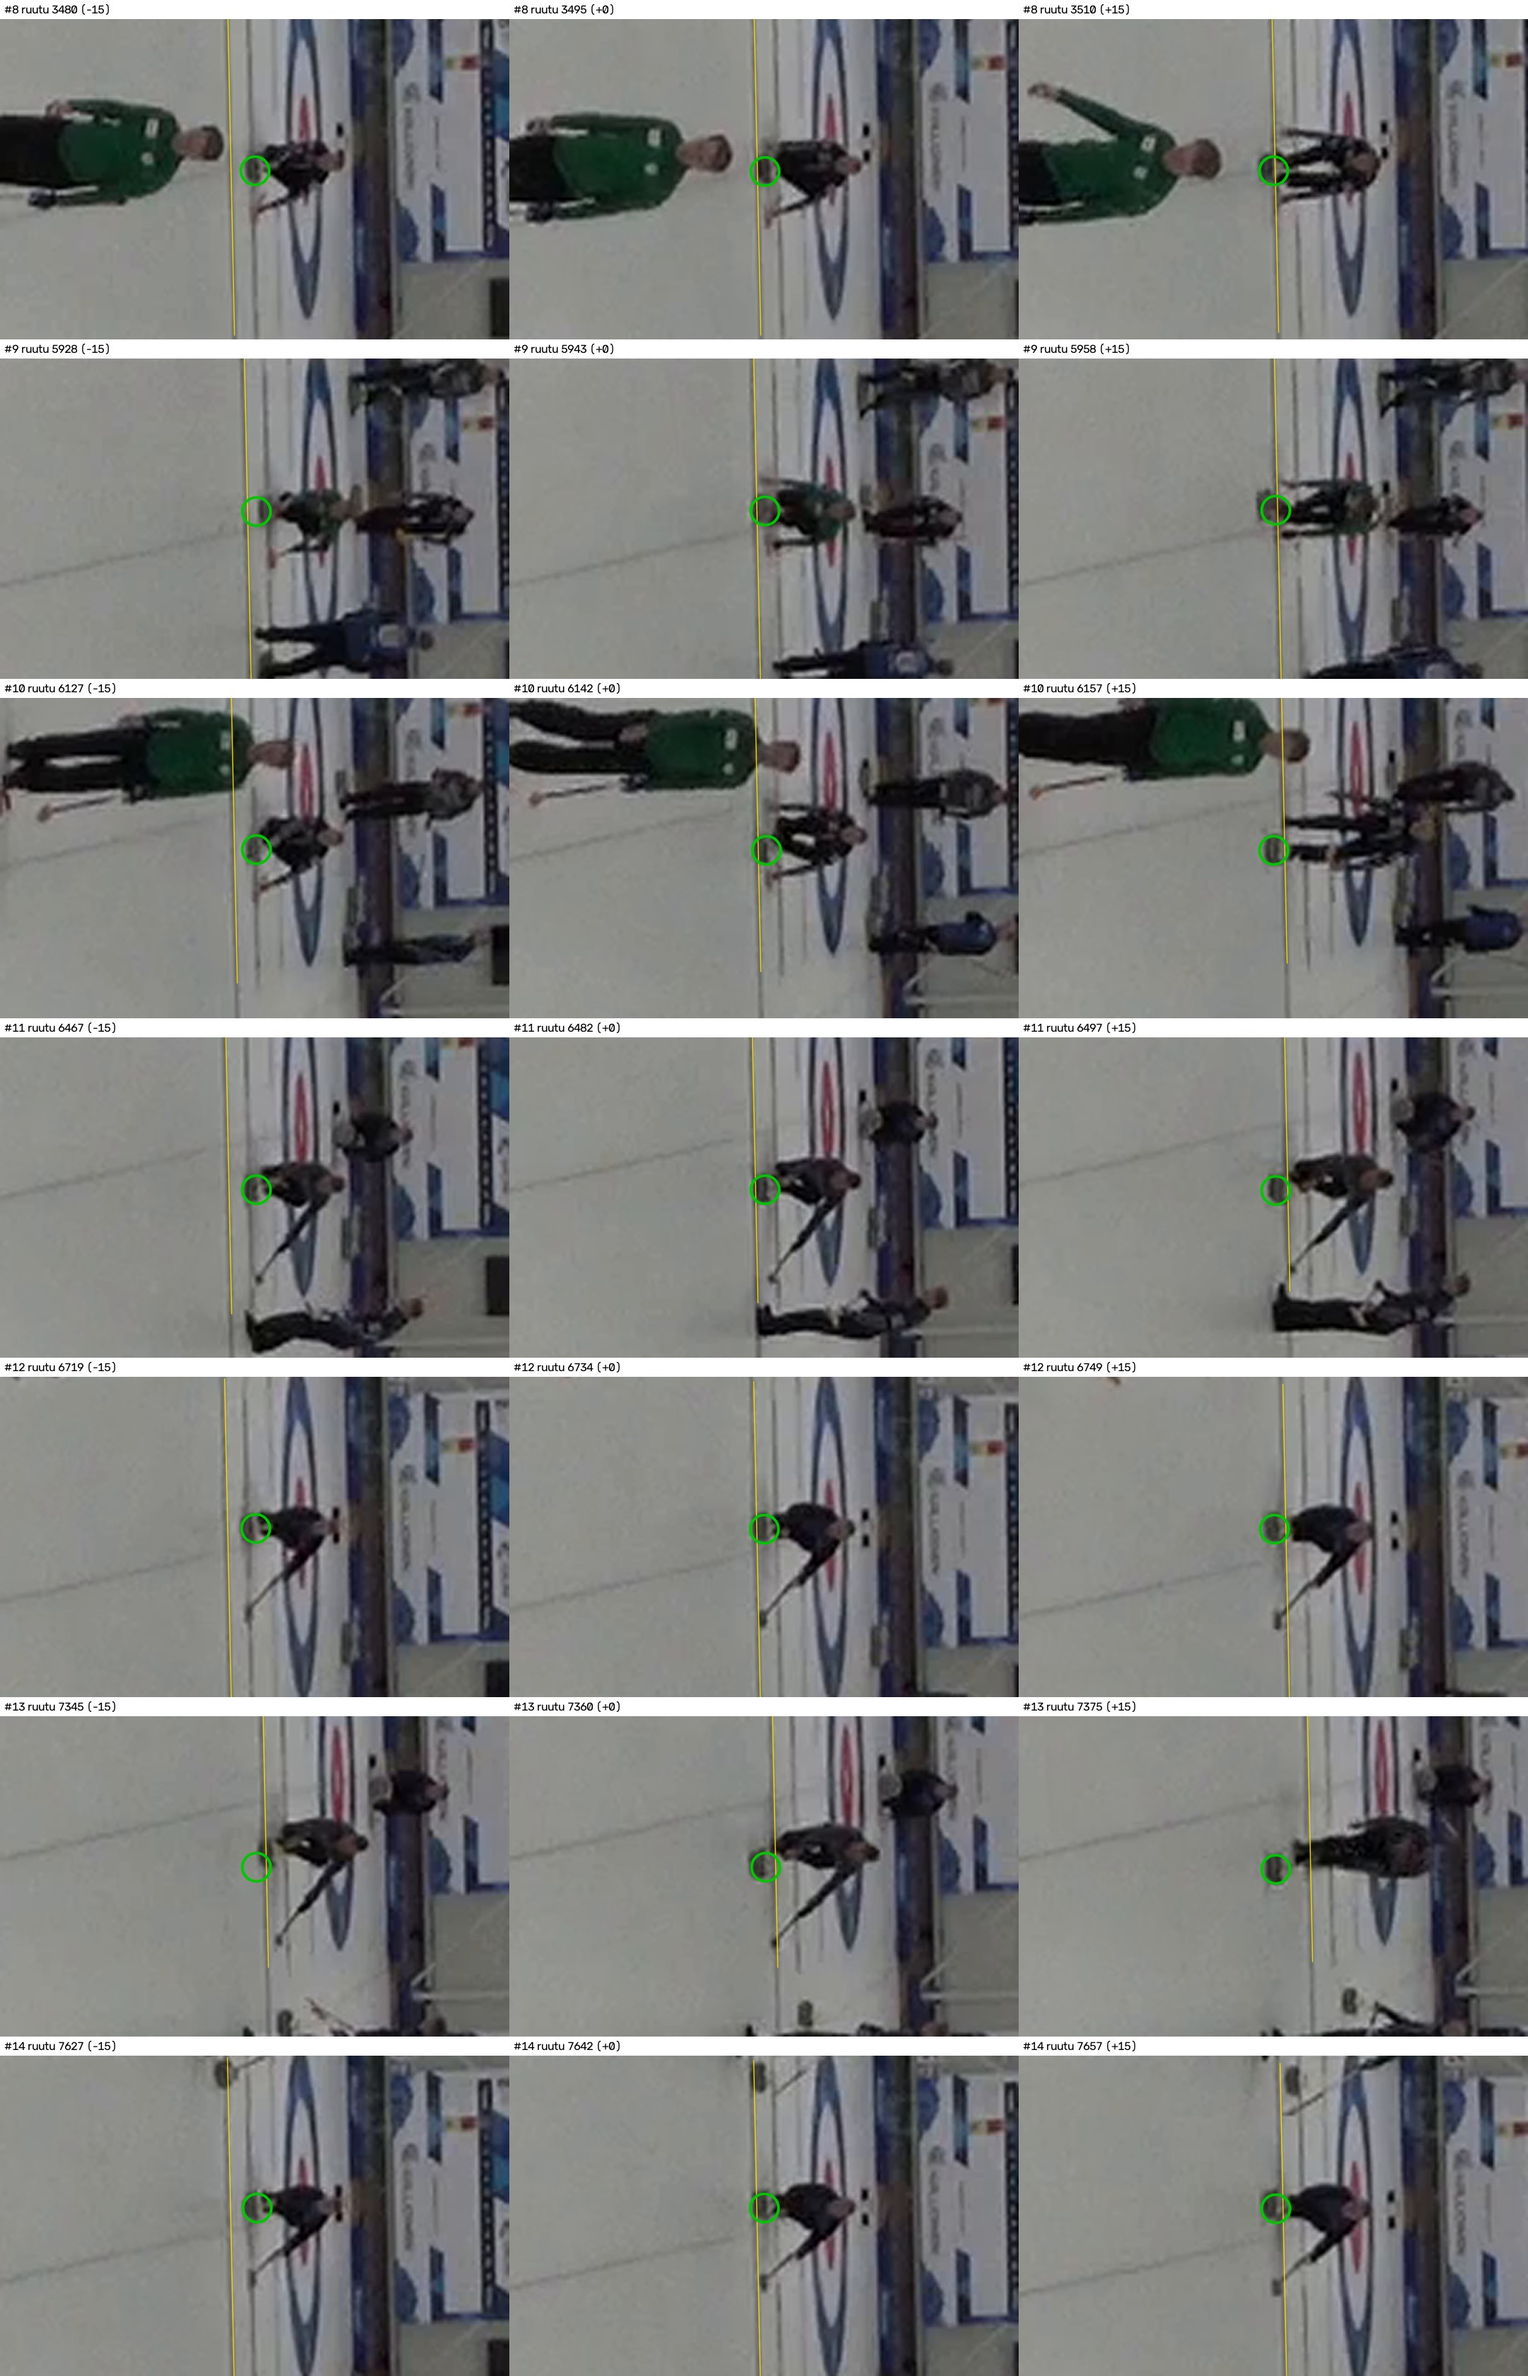
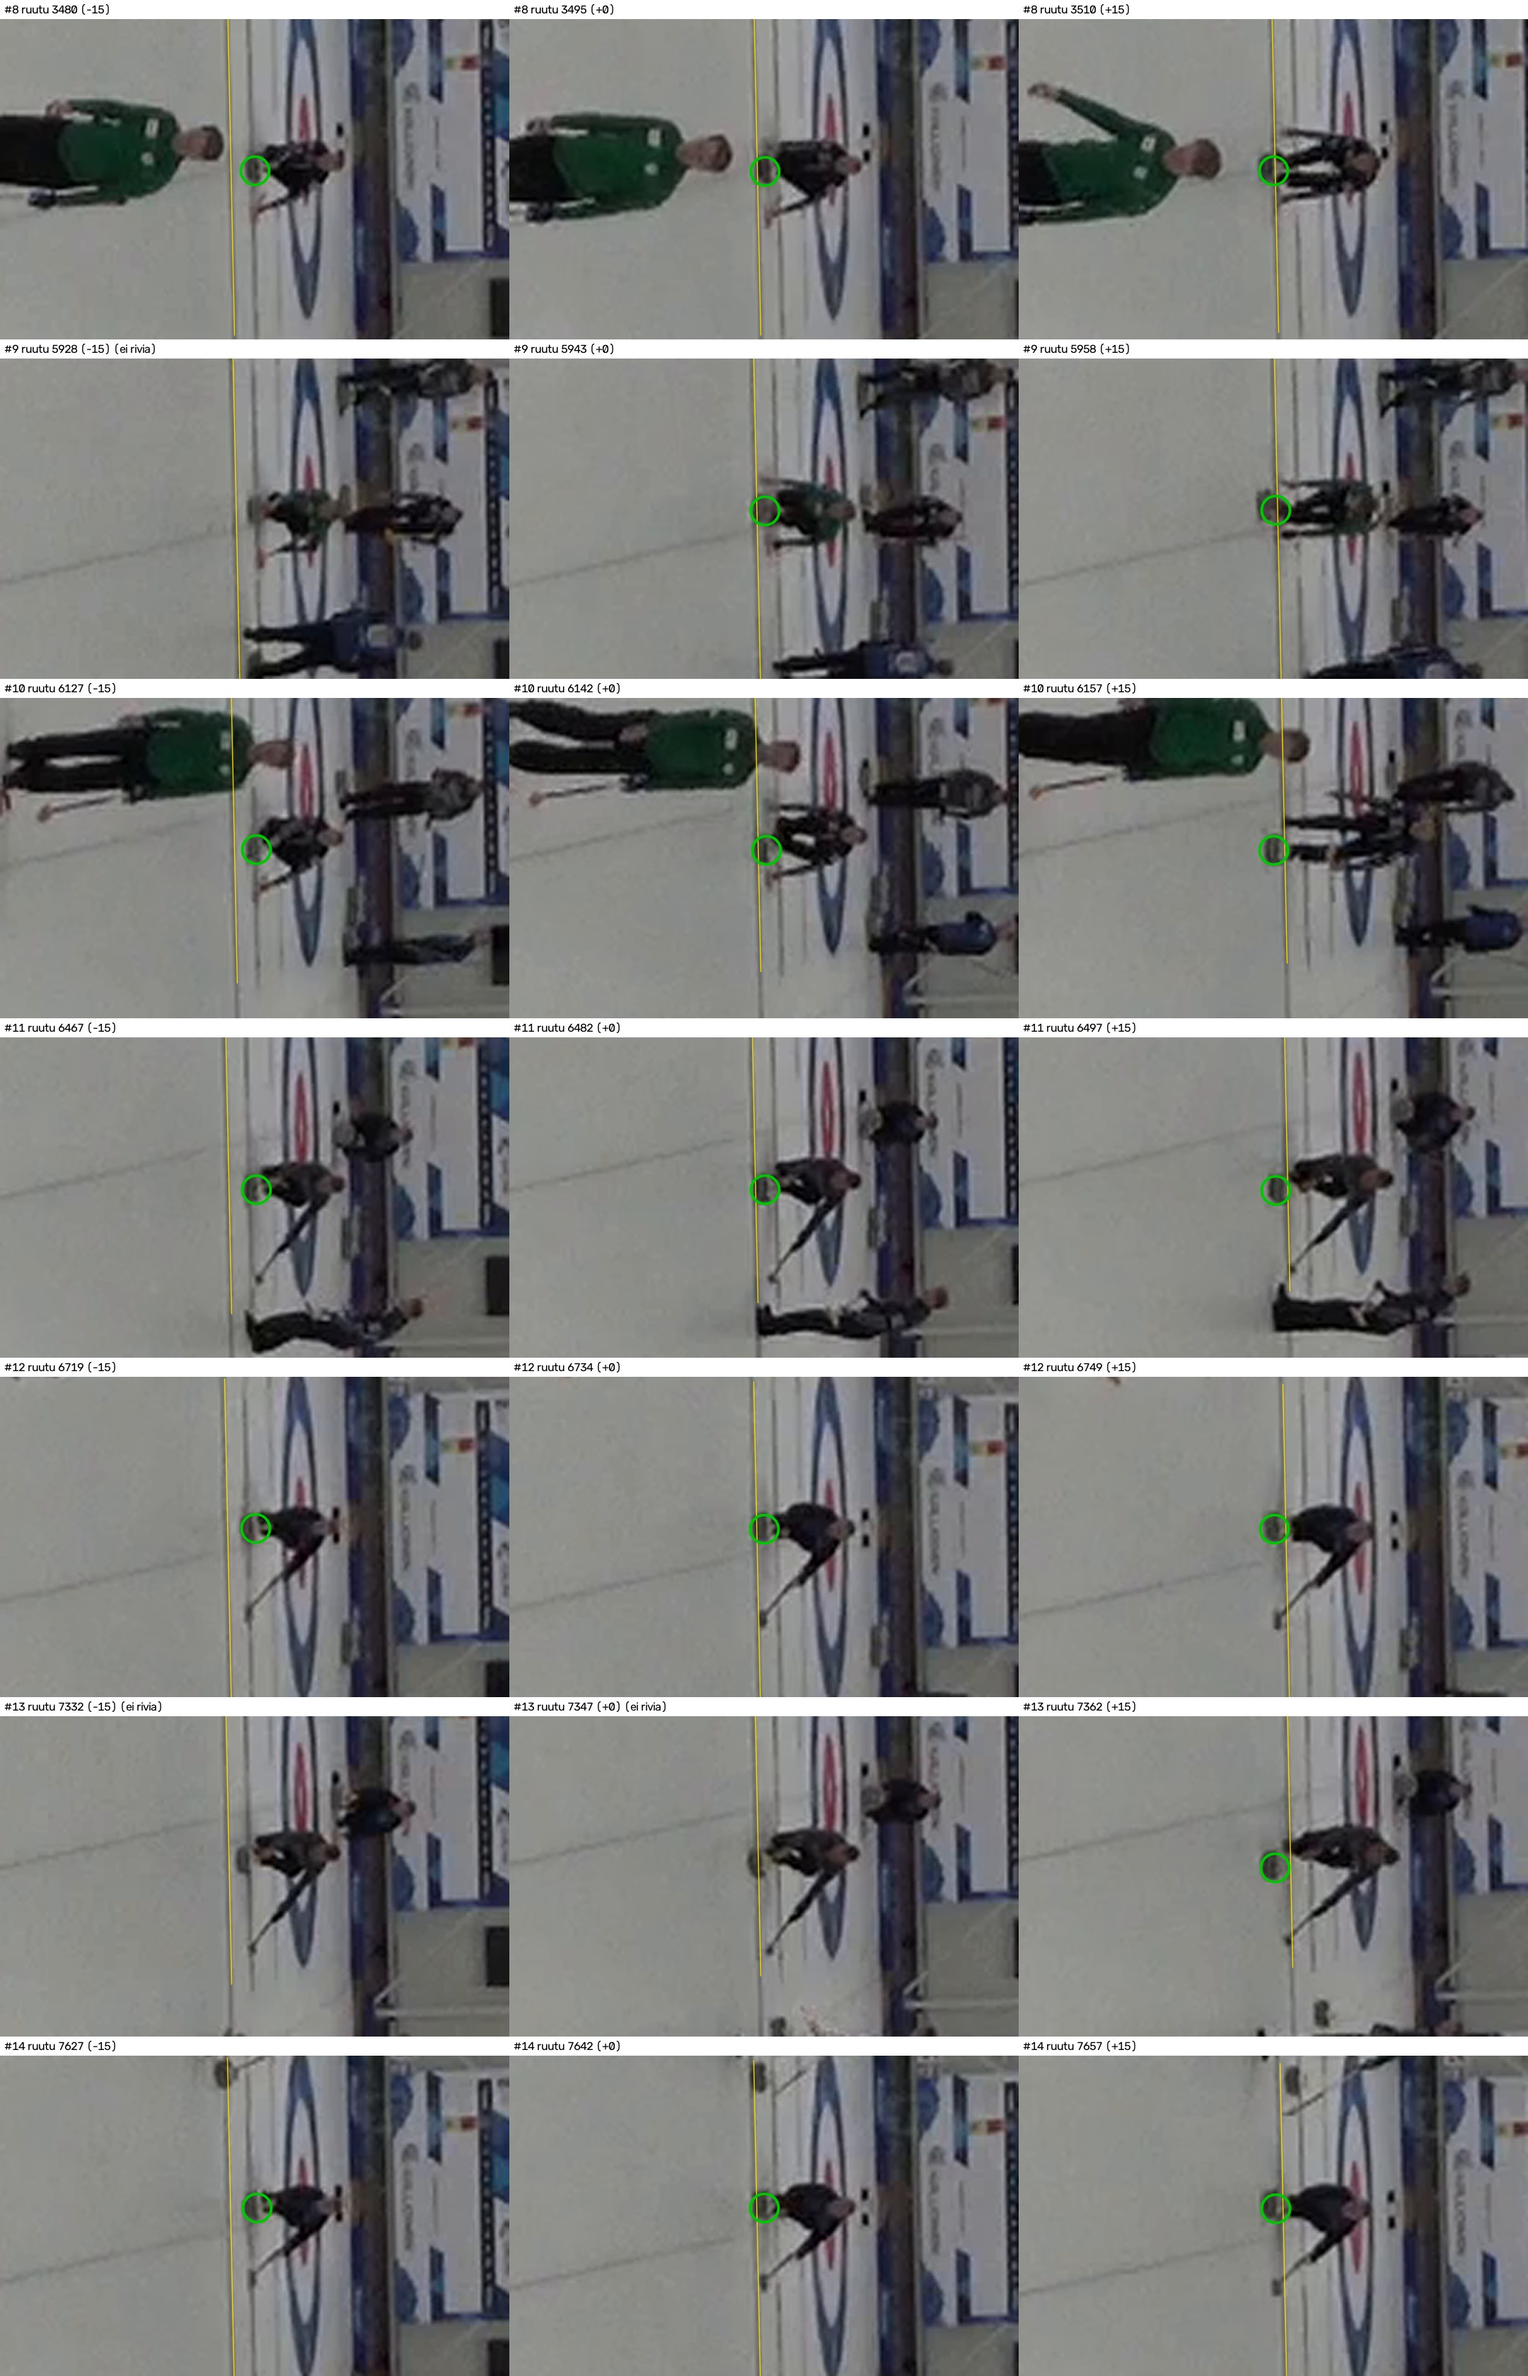
Testi_02_03: korjaa heitto #4 - radan alun karsinta rivittoman aukon jalkeen + ylitysajan ekstrapolointi
Rata 158 alkoi heittajan jalalta (kivi ei ollut viela heitetty) ja lukkiutui kiveen vasta ruudussa 2439.
- main.py: _trim_track_head, _estimate_crossing (GATE_HEAD_GAP_FRAMES, GATE_HEAD_MAX_ROWS, GATE_CROSS_EXTRAPOLATE_MAX)
- tools/regate_csv.py: portti raaka-CSV:lle ilman videota; make_crossing_images.py: ei rengasta ruutuihin ilman rivia
- tulokset: paivitetty CSV, kuvat, heittoportti.txt

Claude-Session: https://claude.ai/code/session_01KJw3vvcaxR8GdJY8FYAu7G

diff --git a/Testi_02_03/main.py b/Testi_02_03/main.py
@@ -1507,6 +1507,9 @@ GATE_MAX_SPEED_RATIO = float(os.environ.get("GATE_MAX_SPEED_RATIO", "0.6"))
 GATE_RESCUE_MAX_RMS = float(os.environ.get("GATE_RESCUE_MAX_RMS", "12.0"))
 GATE_RESCUE_MIN_TARKKA = float(os.environ.get("GATE_RESCUE_MIN_TARKKA", "0.1"))
 GATE_CROSS_DEDUP_FRAMES = float(os.environ.get("GATE_CROSS_DEDUP_FRAMES", "40"))
+GATE_HEAD_GAP_FRAMES = int(os.environ.get("GATE_HEAD_GAP_FRAMES", "30"))
+GATE_HEAD_MAX_ROWS = int(os.environ.get("GATE_HEAD_MAX_ROWS", "40"))
+GATE_CROSS_EXTRAPOLATE_MAX = float(os.environ.get("GATE_CROSS_EXTRAPOLATE_MAX", "60"))
 GATE_MAX_RMS = float(os.environ.get("GATE_MAX_RMS", "3.0"))
 GATE_MIN_TARKKA = float(os.environ.get("GATE_MIN_TARKKA", "0.3"))
 
@@ -1531,6 +1534,32 @@ def _track_kinematics(rows):
     if cross is None and ys[0] <= hog:
         cross = float(fr[0])
     return float(ys[0] - ys.min()), float(ys[-1]), float(ratio), cross
+
+
+def _trim_track_head(rows):
+    """Pudottaa radan alun, jos sen jalkeen on GATE_HEAD_GAP_FRAMES:ia pidempi rivitön aukko ja alku on lyhyt
+    (< GATE_HEAD_MAX_ROWS riviä): rata on alussa lukkiutunut vääraan kohteeseen (esim. pelaajan jalka)
+    ja löytänyt oikean kiven vasta aukon jalkeen. Havaittu: heitto #4 (rata 158)."""
+    for i in range(min(len(rows) - 1, GATE_HEAD_MAX_ROWS)):
+        if rows[i + 1][0] - rows[i][0] > GATE_HEAD_GAP_FRAMES:
+            return rows[i + 1:]
+    return rows
+
+
+def _estimate_crossing(rows):
+    """Kaukaisen hoglinen ylitysframe. Jos rata alkaa jo hoglinen ALAPUOLELTA (rekisteroity myohassa),
+    ylitys ekstrapoloidaan taaksepain radan alun nopeudesta (enintaan GATE_CROSS_EXTRAPOLATE_MAX ruutua)."""
+    cross = _track_kinematics(rows)[3]
+    ys = np.array([r["Y_cm"] for _, _, r in rows])
+    fr = np.array([f for f, _, _ in rows], dtype=float)
+    hog = k8.FAR_HOGLINE_Y_CM
+    if ys[0] <= hog and len(rows) >= 10:
+        m = min(len(rows), 30)
+        v = (ys[0] - ys[m - 1]) / max(1.0, fr[m - 1] - fr[0])   # cm/frame, Y pienenee -> v > 0
+        if v > 1.0:
+            back = min((hog - ys[0]) / v, GATE_CROSS_EXTRAPOLATE_MAX)
+            return float(fr[0] - back)
+    return cross
 
 
 def _track_throw_class(rows):
@@ -1560,11 +1589,12 @@ def _select_throws(tracks):
     kerta vain YKSI kivi ylittaa hoglinen) -> sailyy parempi (hyva sovitus ensin, sitten pienin rms)."""
     cands = []
     for sid, rows in tracks:
+        rows = _trim_track_head(rows)
         cls = _track_throw_class(rows)
         if cls == 0:
             continue
         rms = [r["rms_px"] for _, _, r in rows if r.get("rms_px") is not None]
-        cross = _track_kinematics(rows)[3]
+        cross = _estimate_crossing(rows)
         cands.append((-cls, float(np.median(rms)), -len(rows), sid, rows, cross))
     cands.sort(key=lambda c: c[:3])
     kept = []

diff --git a/Testi_02_03/tools/make_crossing_images.py b/Testi_02_03/tools/make_crossing_images.py
@@ -32,6 +32,11 @@ def crossing(v):
     for a, b in zip(v, v[1:]):
         if a[2] > HOG >= b[2]:
             return a[0]
+    if v[0][2] <= HOG and len(v) >= 10:
+        m = min(len(v), 30)
+        sp = (v[0][2] - v[m - 1][2]) / max(1, v[m - 1][0] - v[0][0])
+        if sp > 1.0:
+            return int(round(v[0][0] - min((HOG - v[0][2]) / sp, 60)))
     return v[0][0] if v[0][2] <= HOG else None
 
 
@@ -45,6 +50,14 @@ def tile(frame, v, label, mark=True):
     ok, im = cap.read()
     im = cv2.undistort(im, cam, dist)
     row = min(v, key=lambda r: abs(r[0] - frame))
+    if frame < v[0][0] and len(v) >= 10:
+        # radalla ei ole rivejä ennen alkuaan (esim. alkupää pudotettu): ekstrapoloi alun nopeudesta
+        m = min(len(v), 30)
+        vx = (v[m - 1][1] - v[0][1]) / max(1, v[m - 1][0] - v[0][0])
+        vy = (v[m - 1][2] - v[0][2]) / max(1, v[m - 1][0] - v[0][0])
+        d = frame - v[0][0]
+        row = (frame, v[0][1] + vx * d, v[0][2] + vy * d)
+    no_rows = frame < v[0][0] - 2 or frame > v[-1][0] + 2
     cx, cy = proj(row[1], row[2])
     x0 = int(np.clip(cx - W, 0, im.shape[1] - 2 * W)); y0 = int(np.clip(cy - H, 0, im.shape[0] - 2 * H))
     crop = cv2.resize(im[y0:y0 + 2 * H, x0:x0 + 2 * W], None, fx=S, fy=S, interpolation=cv2.INTER_CUBIC)
@@ -52,10 +65,10 @@ def tile(frame, v, label, mark=True):
     a = proj(-150, HOG, 0.0); b = proj(150, HOG, 0.0)
     pa = ((a - [x0, y0]) * S).astype(int); pb = ((b - [x0, y0]) * S).astype(int)
     cv2.line(crop, tuple(pa), tuple(pb), (0, 220, 255), 1, cv2.LINE_AA)
-    if mark:
+    if mark and not no_rows:
         cv2.circle(crop, (int((cx - x0) * S), int((cy - y0) * S)), 5 * S, (0, 200, 0), 2, cv2.LINE_AA)
     cv2.rectangle(crop, (0, 0), (crop.shape[1], 26), (255, 255, 255), -1)
-    cv2.putText(crop, label, (6, 19), cv2.FONT_HERSHEY_SIMPLEX, 0.55, (0, 0, 0), 1, cv2.LINE_AA)
+    cv2.putText(crop, label + (" (ei rivia)" if no_rows else ""), (6, 19), cv2.FONT_HERSHEY_SIMPLEX, 0.55, (0, 0, 0), 1, cv2.LINE_AA)
     return crop
 
 

diff --git a/Testi_02_03/tools/regate_csv.py b/Testi_02_03/tools/regate_csv.py
@@ -1,0 +1,29 @@
+"""Ajaa heittoportin uudelleen RAAKALLE CSV:lle (ilman videon uudelleenajoa).
+
+Kaytto: python regate_csv.py raaka.csv ulos.csv
+Portin parametrit ymparistomuuttujilla (GATE_*, katso main.py). Kayttaa main.py:n _select_throws-funktiota.
+"""
+import sys, os, csv, types, collections
+for n in ("tkinter", "tkinter.filedialog"):
+    if n not in sys.modules:
+        sys.modules[n] = types.ModuleType(n)
+sys.modules["tkinter"].filedialog = sys.modules["tkinter.filedialog"]
+sys.path.insert(0, os.path.dirname(os.path.dirname(os.path.abspath(__file__))))
+import main as M
+
+src, dst = sys.argv[1:3]
+tr = collections.defaultdict(list)
+for r in csv.DictReader(open(src)):
+    tr[int(r["stone_id"])].append((int(r["frame"]), float(r["timestamp_s"]), dict(
+        X_cm=float(r["x_m"]) * 100, Y_cm=float(r["y_m"]) * 100, tarkka=int(r["tarkka"]),
+        n_body=int(r["n_runkopistetta"]), n_ring=int(r["n_reunapistetta"]),
+        rms_px=float(r["rms_px"]) if r["rms_px"] else None,
+        ring_radius_cm=float(r["rengas_r_cm"]) if r["rengas_r_cm"] else None)))
+sel = M._select_throws(list(tr.items()))
+with open(dst, "w", newline="") as f:
+    w = csv.writer(f)
+    w.writerow(M.CSV_HEADER)
+    for sid, rows in sel:
+        for rf, rt, rr in rows:
+            M._write_stone_csv_row(w, rf, rt, sid, rr)
+print(f"{len(tr)} rataa -> {len(sel)} heittoa -> {dst}")

diff --git a/Testi_02_03/MEAN_SHIFT_SEURANTA.md b/Testi_02_03/MEAN_SHIFT_SEURANTA.md
@@ -197,8 +197,16 @@ ruutua (`tulokset/heittoportti.txt`), listaan kuulumattomia ratoja 0; rivejä 14
 `tulokset/heitot_MAH00014_leikattu.csv`. Kuvat jokaisen ylityksen kohdalta: `tulokset/kuvat/hogline_ylitykset/`
 (yleiskuva + nauhat ylitys −15/0/+15 ruutua; keltainen viiva = hogline, vihreä rengas = rata).
 
-**Silmämääräinen tarkistus kuvista:** 25/26 ylityskuvassa rengas on hoglinen kohdalla olevan kiven päällä. **#4 (ruutu 2360, id 158)
-on virheellinen radan alussa**: rengas on pelaajan jalan päällä ja heitetty kivi on renkaan vasemmalla puolella; rata lukkiutuu
-kiveen vasta myöhemmin, joten sen ylitysframe on epätarkka (lista sanoo 2425). Kolmessa (#17, #19, #23) rengas on ruudussa
-ylitys −15 vielä tyhjällä jäällä (kivi ei näy heittäjän takaa). Portin arvot on säädetty **yhdellä videolla ja tällä listalla**
-(esim. heikon sovituksen väylä osuu vain heittoon 15525), joten yleistettävyys toiselle videolle on todentamatta.
+**Silmämääräinen tarkistus kuvista ja heitto #4:** ensimmäisessä versiossa #4 (ruutu 2360, rata 158) oli väärin: rengas oli
+heittäjän jalan päällä. Selvitys (`tulokset/kuvat/hogline_ylitykset/heitto4_*.jpg`): seuraavaa kiveä ei ollut vielä
+heitetty ruudussa 2360 - HAKU rekisteröi ehdokkaan heittäjän jalalta, rata menetti kohteen (65 ruudun rivitön aukko) ja lukkiutui
+oikeaan kiveen vasta ruudussa 2439 (kivi lähtee heittäjältä hoglinen yli). Vasemmalla näkyvä kivi oli edellinen heitto (#3).
+**Korjaus:** radan alku pudotetaan, jos sen jälkeen on yli 30 ruudun rivitön aukko ja alku on lyhyt (< 40 riviä)
+(`GATE_HEAD_GAP_FRAMES`, `GATE_HEAD_MAX_ROWS`), ja jos rata alkaa hoglinen alapuolelta, ylitysaika ekstrapoloidaan taaksepäin radan
+alun nopeudesta (enintään 60 ruutua). Vain rata 158 kärsi tästä (muiden aukot < 20 ruutua). Uusi ylitys 2411 (lista 2425, ero
+−14); kaikkien 26 ylitysaikojen ero listaan ≤ 28 ruutua. Ekstrapolointi on likimääräinen: kivi liikkuu vapautuksessa aluksi hitaammin
+(Y 2856 → 2863 ruuduissa 2439–2447), joten todellinen ylitys on ~10–25 ruutua ekstrapoloitua myöhemmin. Portti voidaan ajaa
+raaka-CSV:lle uudelleen ilman videota: `python tools/regate_csv.py raaka.csv ulos.csv` (parametrit `GATE_*`).
+Muut ylityskuvat: rengas on kiven päällä; kolmessa (#17, #19, #23) rengas on ruudussa ylitys −15 vielä tyhjällä jäällä (kivi ei
+näy heittäjän takaa). Portin arvot on säädetty **yhdellä videolla ja tällä listalla** (esim. heikon sovituksen väylä osuu vain
+heittoon 15525), joten yleistettävyys toiselle videolle on todentamatta.
